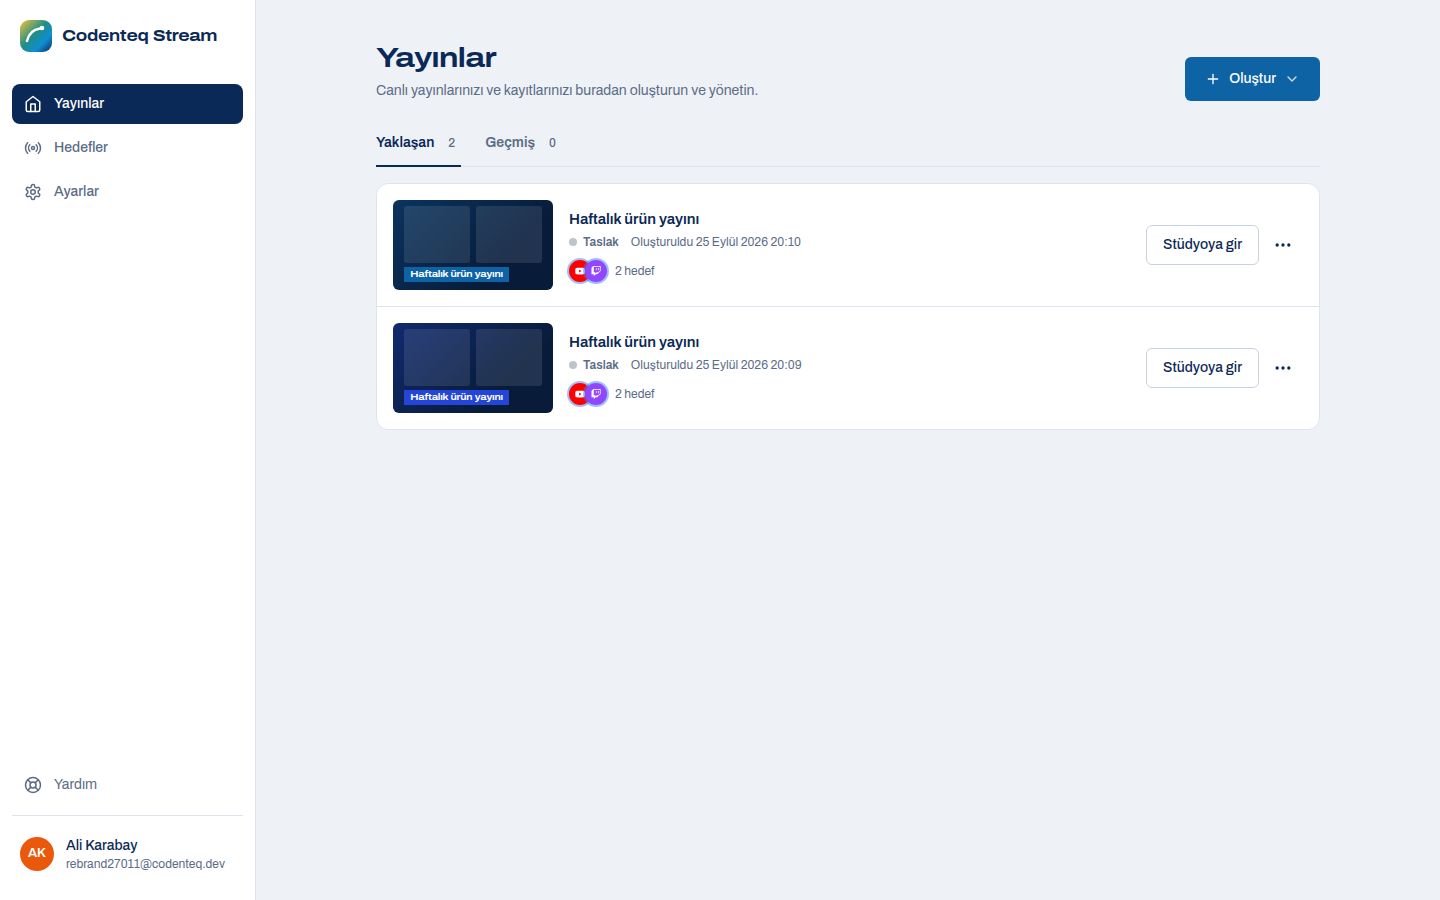
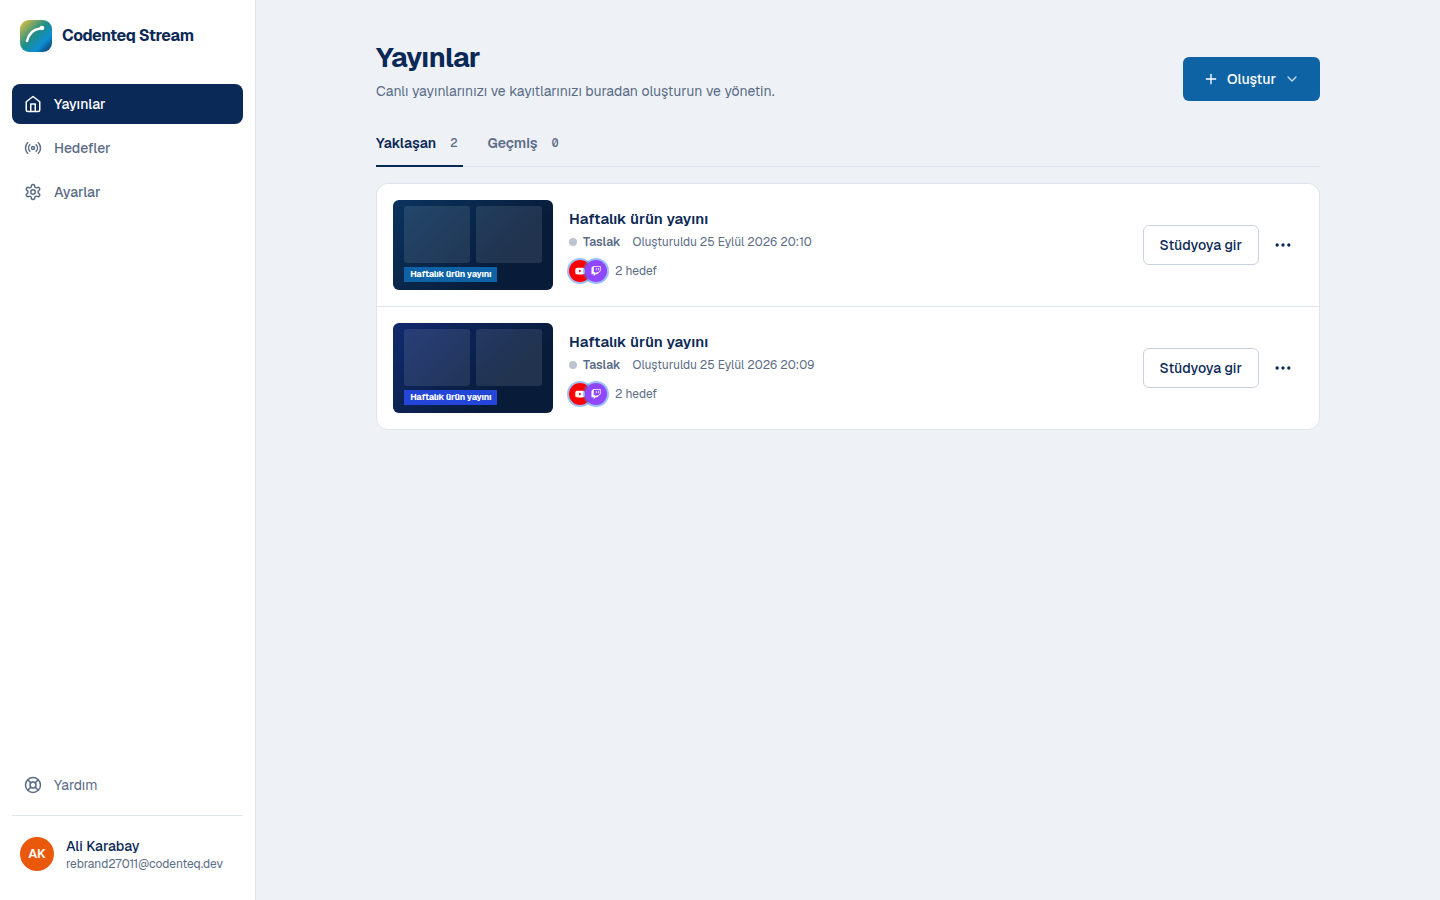
Switch the UI typeface from Archivo to Geist
Archivo was picked in isolation and leaned on its width axis for the
"broadcast poster" headline look. Cirtrace, the sibling Codenteq
product, uses Geist — switch to it for consistency across the
company's tools.

- Geist Sans (next/font/local via the `geist` package, weight-only
  variable axis) replaces Archivo everywhere, including the studio's
  on-air canvas graphics (name tags, banners, ticker), which already
  read whatever font is computed on <body> rather than hardcoding one.
- `.font-display` drops the now-meaningless font-stretch/wdth axis
  (Geist has none) for tight letter-spacing tuned to Geist's own
  large-size character. `.font-wide` is removed; nothing used it.
- Geist Mono is added for `.tabular`: timecodes, bitrates, masked
  stream keys and counts now sit in a monospace built for the job,
  distinct from prose.
- The now-dead canvas font-stretch helper (a no-op without a width
  axis) is removed from the compositor.
- README screenshots re-taken under the new typeface.

The gradient logo mark from the previous rebrand is unchanged.

diff --git a/frontend/lib/studio/compositor.ts b/frontend/lib/studio/compositor.ts
@@ -203,7 +203,7 @@ export function shade(hex: string, amount: number) {
 const FALLBACK_FONT = '"Segoe UI", system-ui, -apple-system, sans-serif';
 let cachedFont: string | null = null;
 
-/** Sayfanın Archivo ailesini (next/font'un ürettiği adla) canvas için döndürür. */
+/** Sayfanın yazı tipi ailesini (next/font'un ürettiği adla) canvas için döndürür. */
 function fontFamily() {
   if (cachedFont) return cachedFont;
   if (typeof document === 'undefined') return FALLBACK_FONT;
@@ -212,12 +212,6 @@ function fontFamily() {
   // Canvas yazı tipini ancak yüklendikten sonra kullanabilir
   document.fonts?.load(`700 32px ${family}`).catch(() => undefined);
   return family;
-}
-
-/** Yayın grafikleri için geniş kesim (tarayıcı destekliyorsa) */
-function setStretch(ctx: CanvasRenderingContext2D, value: 'normal' | 'expanded') {
-  const c = ctx as CanvasRenderingContext2D & { fontStretch?: string };
-  if ('fontStretch' in c) c.fontStretch = value;
 }
 
 function tagStyle(theme: BrandTheme, color: string) {
@@ -267,7 +261,6 @@ function renderTag(name: string, brand: BrandConfig, fs: number, maxW: number, c
   const ctx = canvas.getContext('2d')!;
   const font = `${s.weight} ${fs}px ${family}`;
   ctx.font = font;
-  setStretch(ctx, 'expanded');
   const text = s.upper ? name.toUpperCase() : name;
   const padX = fs * 0.7;
   const padY = fs * 0.42;
@@ -284,7 +277,6 @@ function renderTag(name: string, brand: BrandConfig, fs: number, maxW: number, c
   canvas.height = Math.ceil(h + margin * 2);
   // Boyut değişince bağlam sıfırlanır
   ctx.font = font;
-  setStretch(ctx, 'expanded');
   ctx.save();
   ctx.shadowColor = 'rgba(0,0,0,0.25)';
   ctx.shadowBlur = fs * 0.4;
@@ -346,7 +338,6 @@ export function drawBanner(ctx: CanvasRenderingContext2D, banner: Banner, brand:
     ctx.fillStyle = s.bg === 'rgba(15,23,42,0.62)' ? 'rgba(15,23,42,0.85)' : s.bg;
     ctx.fillRect(0, y, W, h);
     ctx.font = `${s.weight} ${fs}px ${fontFamily()}`;
-    setStretch(ctx, 'expanded');
     ctx.fillStyle = s.fg;
     ctx.textBaseline = 'middle';
     const text = (s.upper ? banner.text.toUpperCase() : banner.text) + '     •     ';
@@ -359,14 +350,12 @@ export function drawBanner(ctx: CanvasRenderingContext2D, banner: Banner, brand:
     ctx.clip();
     for (let x = -offset; x < W; x += tw) ctx.fillText(text, x, y + h / 2);
     ctx.restore();
-    setStretch(ctx, 'normal');
     return;
   }
 
   const scale = brand.theme === 'bold' ? 1.15 : 1;
   const fs = H * 0.04 * scale;
   ctx.font = `${s.weight} ${fs}px ${fontFamily()}`;
-  setStretch(ctx, 'expanded');
   const maxW = W * 0.84;
   const lines = wrapLines(ctx, s.upper ? banner.text.toUpperCase() : banner.text, maxW, 2);
   const lineH = fs * 1.25;
@@ -393,7 +382,6 @@ export function drawBanner(ctx: CanvasRenderingContext2D, banner: Banner, brand:
   ctx.fillStyle = s.fg;
   ctx.textBaseline = 'middle';
   lines.forEach((l, i) => ctx.fillText(l, x + accentW + padX, y + padY + lineH * i + lineH / 2));
-  setStretch(ctx, 'normal');
 }
 
 export function drawAvatarPlaceholder(ctx: CanvasRenderingContext2D, box: Box, name: string, color: string) {

diff --git a/frontend/app/layout.tsx b/frontend/app/layout.tsx
@@ -1,12 +1,10 @@
 import type { Metadata } from "next";
-import { Archivo } from "next/font/google";
+import { GeistSans } from "geist/font/sans";
+import { GeistMono } from "geist/font/mono";
 import "./globals.css";
 import { ThemeProvider } from "@/components/theme-provider";
 import { Toaster } from "@/components/ui/toaster";
 import { TooltipProvider } from "@/components/ui/tooltip";
-
-// Tek aile: normal genişlik arayüz için, geniş kesim başlık ve yayın grafikleri için.
-const archivo = Archivo({ subsets: ["latin", "latin-ext"], axes: ["wdth"], variable: "--font-archivo", display: "swap" });
 
 export const metadata: Metadata = {
   title: "Codenteq Stream — Tarayıcıdaki canlı yayın stüdyosu",
@@ -16,7 +14,7 @@ export const metadata: Metadata = {
 export default function RootLayout({ children }: { children: React.ReactNode }) {
   return (
     <html lang="tr" suppressHydrationWarning>
-      <body className={`${archivo.variable} font-sans`}>
+      <body className={`${GeistSans.variable} ${GeistMono.variable} font-sans`}>
         <ThemeProvider attribute="class" defaultTheme="light" enableSystem={false} disableTransitionOnChange>
           <TooltipProvider>{children}</TooltipProvider>
           <Toaster />

diff --git a/frontend/app/globals.css b/frontend/app/globals.css
@@ -64,7 +64,6 @@
   }
   body {
     @apply bg-background text-foreground antialiased;
-    font-feature-settings: "ss01" 0;
   }
   h1, h2, h3 {
     text-wrap: balance;
@@ -75,18 +74,15 @@
   .scrollbar-thin {
     scrollbar-width: thin;
   }
-  /* Archivo'nun geniş kesimi: başlıklar ve yayın grafikleri için */
+  /* Geist'in büyük boyuttaki karakteri: sıkı harf aralığı, genişlik ekseni yok. */
   .font-display {
-    font-stretch: 118%;
-    font-variation-settings: "wdth" 118;
-    letter-spacing: -0.02em;
+    letter-spacing: -0.025em;
   }
-  .font-wide {
-    font-stretch: 125%;
-    font-variation-settings: "wdth" 125;
-  }
+  /* Zaman kodu, bit hızı, maskeli anahtar gibi ölçüm değerleri: Geist Mono ile
+     hizalı rakamlar. Düzyazıdan ayrışsın diye tek yerde kullanılır. */
   .tabular {
     font-variant-numeric: tabular-nums;
+    font-family: var(--font-geist-mono), ui-monospace, "SFMono-Regular", Menlo, monospace;
   }
   /* Logodaki gün doğumu → okyanus geçişi. Yalnızca marka işaretinde kullanılır. */
   .brand-mark-gradient {

diff --git a/frontend/tailwind.config.js b/frontend/tailwind.config.js
@@ -17,7 +17,8 @@ module.exports = {
     },
     extend: {
       fontFamily: {
-        sans: ["var(--font-archivo)", "Segoe UI", "system-ui", "sans-serif"],
+        sans: ["var(--font-geist-sans)", "Segoe UI", "system-ui", "sans-serif"],
+        mono: ["var(--font-geist-mono)", "ui-monospace", "SFMono-Regular", "Menlo", "monospace"],
       },
       colors: {
         border: "hsl(var(--border))",
